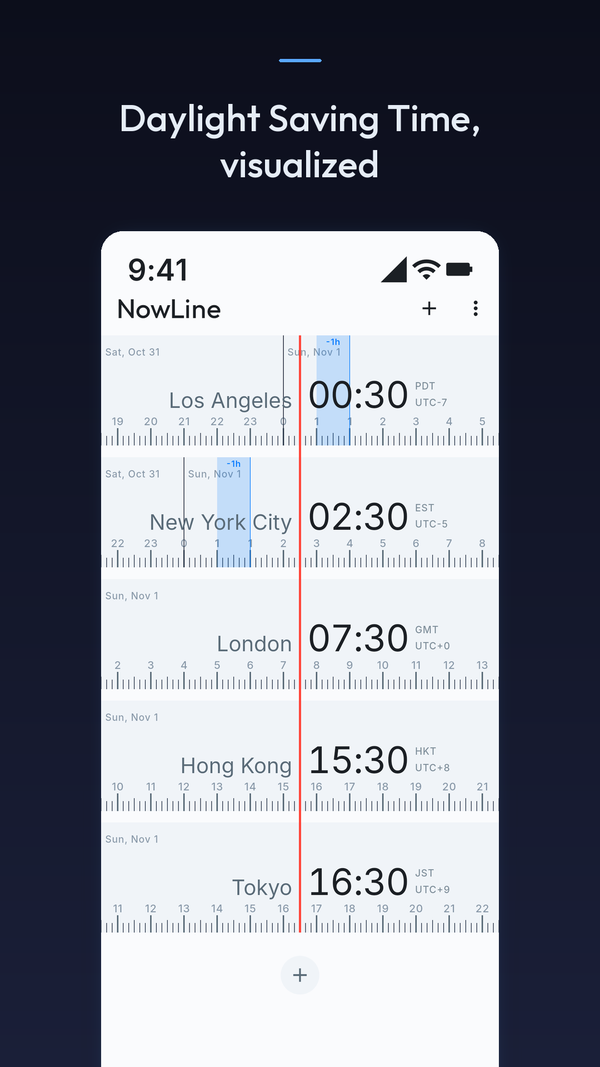
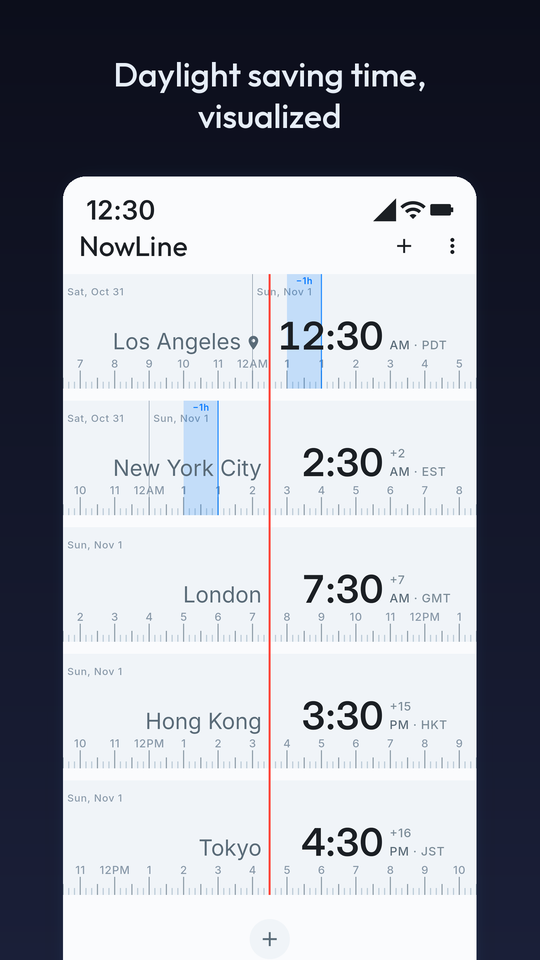
Refresh the NowLine screenshots and the claims they contradicted
The five frames are recomposed from the current store frames (12-hour
clock, the home-city pin, the +1 day badge, the proofread captions), at
half their pixels in lossless WebP; width, height and alt follow them.
The Open Graph card is regenerated from the feature graphic, whose line
is now "World clock and time zone converter".

The landing and support pages said the only network use was a single
city guess on first launch. The app looks up its approximate location
from the IP address on every start, and sends analytics unless they are
turned off. Themes are Light, Dark and Midnight, or follow the system,
as the listing and the fifth frame say, not four. The labels card now
also names the home-city pin, the offset from your time and the day badge.

Ref: nalex095/nowline#52

diff --git a/apps/nowline/index.html b/apps/nowline/index.html
@@ -14,7 +14,7 @@
 <meta property="og:image" content="https://tilveno.com/assets/nowline-og.png">
 <meta property="og:image:width" content="1200">
 <meta property="og:image:height" content="630">
-<meta property="og:image:alt" content="NowLine — time zones on one timeline">
+<meta property="og:image:alt" content="NowLine — world clock and time zone converter">
 <meta name="twitter:card" content="summary_large_image">
 <link rel="canonical" href="https://tilveno.com/apps/nowline/">
 <link rel="icon" type="image/svg+xml" href="../../favicon.svg">
@@ -62,16 +62,16 @@ instead of doing the arithmetic in your head.</p>
      listing's own images, not a second set shot for the web: the app repository
      composes them once and both stores and this page read the same five.
      Lossless WebP because the frames are drawn, not photographed — flat fills and
-     hairline ticks are what a lossy codec rings around, and lossless costs 81 kB
+     hairline ticks are what a lossy codec rings around, and lossless costs about 80 kB
      a frame here. The strip scrolls rather than wraps; the overlay line is baked
      into each image, so alt carries it instead of a caption repeating it. -->
 <div class="shotstrip">
 <div class="shots" role="group" aria-label="NowLine screenshots">
-<button type="button" class="shot"><img src="../../assets/nowline-01-home.webp" width="600" height="1067" loading="lazy" decoding="async" alt="All your timezones, in sync — five cities on one timeline, each showing the same moment."></button>
-<button type="button" class="shot"><img src="../../assets/nowline-02-scrub.webp" width="600" height="1067" loading="lazy" decoding="async" alt="Drag to explore any moment in time — the timeline pulled two hours ahead, every card following."></button>
-<button type="button" class="shot"><img src="../../assets/nowline-03-dst.webp" width="600" height="1067" loading="lazy" decoding="async" alt="Daylight Saving Time, visualized — the repeated hour marked on both sides of the red now line."></button>
-<button type="button" class="shot"><img src="../../assets/nowline-04-search.webp" width="600" height="1067" loading="lazy" decoding="async" alt="Find any city, offset, or abbreviation — search results for “new”."></button>
-<button type="button" class="shot"><img src="../../assets/nowline-05-midnight.webp" width="600" height="1067" loading="lazy" decoding="async" alt="4 themes. 10 languages. — the same five cards in the Midnight theme."></button>
+<button type="button" class="shot"><img src="../../assets/nowline-01-home.webp" width="540" height="960" loading="lazy" decoding="async" alt="All your time zones, in sync — five cities on one timeline, each showing the same moment, with a pin on Los Angeles as the city you are in."></button>
+<button type="button" class="shot"><img src="../../assets/nowline-02-scrub.webp" width="540" height="960" loading="lazy" decoding="async" alt="Drag to explore any moment in time — the timeline pulled ahead to 11:21 PM in Los Angeles, every card following."></button>
+<button type="button" class="shot"><img src="../../assets/nowline-03-dst.webp" width="540" height="960" loading="lazy" decoding="async" alt="Daylight saving time, visualized — the hour that repeats when clocks go back, marked in blue for Los Angeles and New York."></button>
+<button type="button" class="shot"><img src="../../assets/nowline-04-search.webp" width="540" height="960" loading="lazy" decoding="async" alt="Find any city, offset, or abbreviation — search results for “new”."></button>
+<button type="button" class="shot"><img src="../../assets/nowline-05-midnight.webp" width="540" height="960" loading="lazy" decoding="async" alt="3 themes. 10 languages. — the same five cards in the Midnight theme."></button>
 </div>
 </div>
 
@@ -95,9 +95,9 @@ timeline all work with no connection.</p>
 when they go back — the two days a year that break every mental calculation.</p>
 </div>
 <div class="card">
-<h3>Your labels, not just cities</h3>
-<p>Rename any card to a person, an office or a project. Clearing the text restores the original
-city name.</p>
+<h3>Read from where you are</h3>
+<p>A pin marks your own city. Every card shows how far it is from your time (−7, +2:30) and a +1
+or −1 when it is on another date. Rename any card to a person, an office or a project.</p>
 </div>
 <div class="card">
 <h3>Ten languages</h3>
@@ -105,9 +105,9 @@ city name.</p>
 with right-to-left layout where it belongs.</p>
 </div>
 <div class="card">
-<h3>Four themes</h3>
-<p>Automatic, Light, Dark and Midnight, plus a 12- or 24-hour clock and haptics you can turn
-off.</p>
+<h3>Three themes</h3>
+<p>Light, Dark and Midnight, or follow your system — plus a 12- or 24-hour clock and haptics you
+can turn off.</p>
 </div>
 </div>
 
@@ -115,8 +115,8 @@ off.</p>
 <h2>Private by default</h2>
 <p>Everything you create in NowLine — your cards, their order, their labels — is stored on your
 device and goes nowhere else. There is no account to make and nothing to sign in to. The app does
-not use GPS and never asks for location permission; the one thing that touches the network is a
-single approximate guess at your city on first launch, from your IP address. Analytics can be
+not use GPS and never asks for location permission; to name your first card and mark your own
+city, it looks up your approximate location from your IP address each time it starts. Analytics can be
 turned off entirely in <strong>Settings &rarr; Privacy</strong>, and with it off the SDK is never
 started at all. The details are in the <a href="privacy/">Privacy Policy</a>.</p>
 
@@ -129,7 +129,7 @@ and there is no recurring charge. Nothing is time-limited and nothing expires.</
 <h2>Questions</h2>
 
 <h3>Does it work without a connection?</h3>
-<p>Yes. The only thing that uses the network is that first-launch city guess.</p>
+<p>Yes. Clocks, search and the timeline need no connection. Without one, the only things it cannot do are look up your city from your IP address and send analytics.</p>
 
 <h3>Does it need my location?</h3>
 <p>No. There is no location permission and no GPS. The first card is guessed from your IP address,

diff --git a/apps/nowline/support/index.html b/apps/nowline/support/index.html
@@ -64,8 +64,8 @@ search. The app does not use GPS and does not ask for location permission.</p>
 
 <h3 style="font-size:21px;margin:28px 0 12px;letter-spacing:-0.01em">Does it work offline?</h3>
 <p>Yes. Time zone rules and the searchable city index ship inside the app, so clocks, search and the
-timeline all work with no connection. The only thing that uses the network is that one first-launch
-city guess.</p>
+timeline all work with no connection. Without one, the only things it cannot do are look up your city from your
+IP address and send analytics.</p>
 
 <h3 style="font-size:21px;margin:28px 0 12px;letter-spacing:-0.01em">How do I look at a different time?</h3>
 <p>Drag the timeline sideways — every card moves with it, so you are reading the same moment in
@@ -85,7 +85,7 @@ name, an office, a project. Clearing the text restores the original city name.</
 for confirmation.</p>
 
 <h3 style="font-size:21px;margin:28px 0 12px;letter-spacing:-0.01em">Where are the settings I might want?</h3>
-<p>Settings covers the 12- or 24-hour clock, the theme (Automatic, Light, Dark or Midnight),
+<p>Settings covers the 12- or 24-hour clock, the theme (Light, Dark or Midnight, or follow your system),
 haptics, and the interface language. NowLine is translated into ten languages: English, German,
 Spanish, French, Japanese, Korean, Portuguese, Russian, Arabic and Chinese.</p>
 
